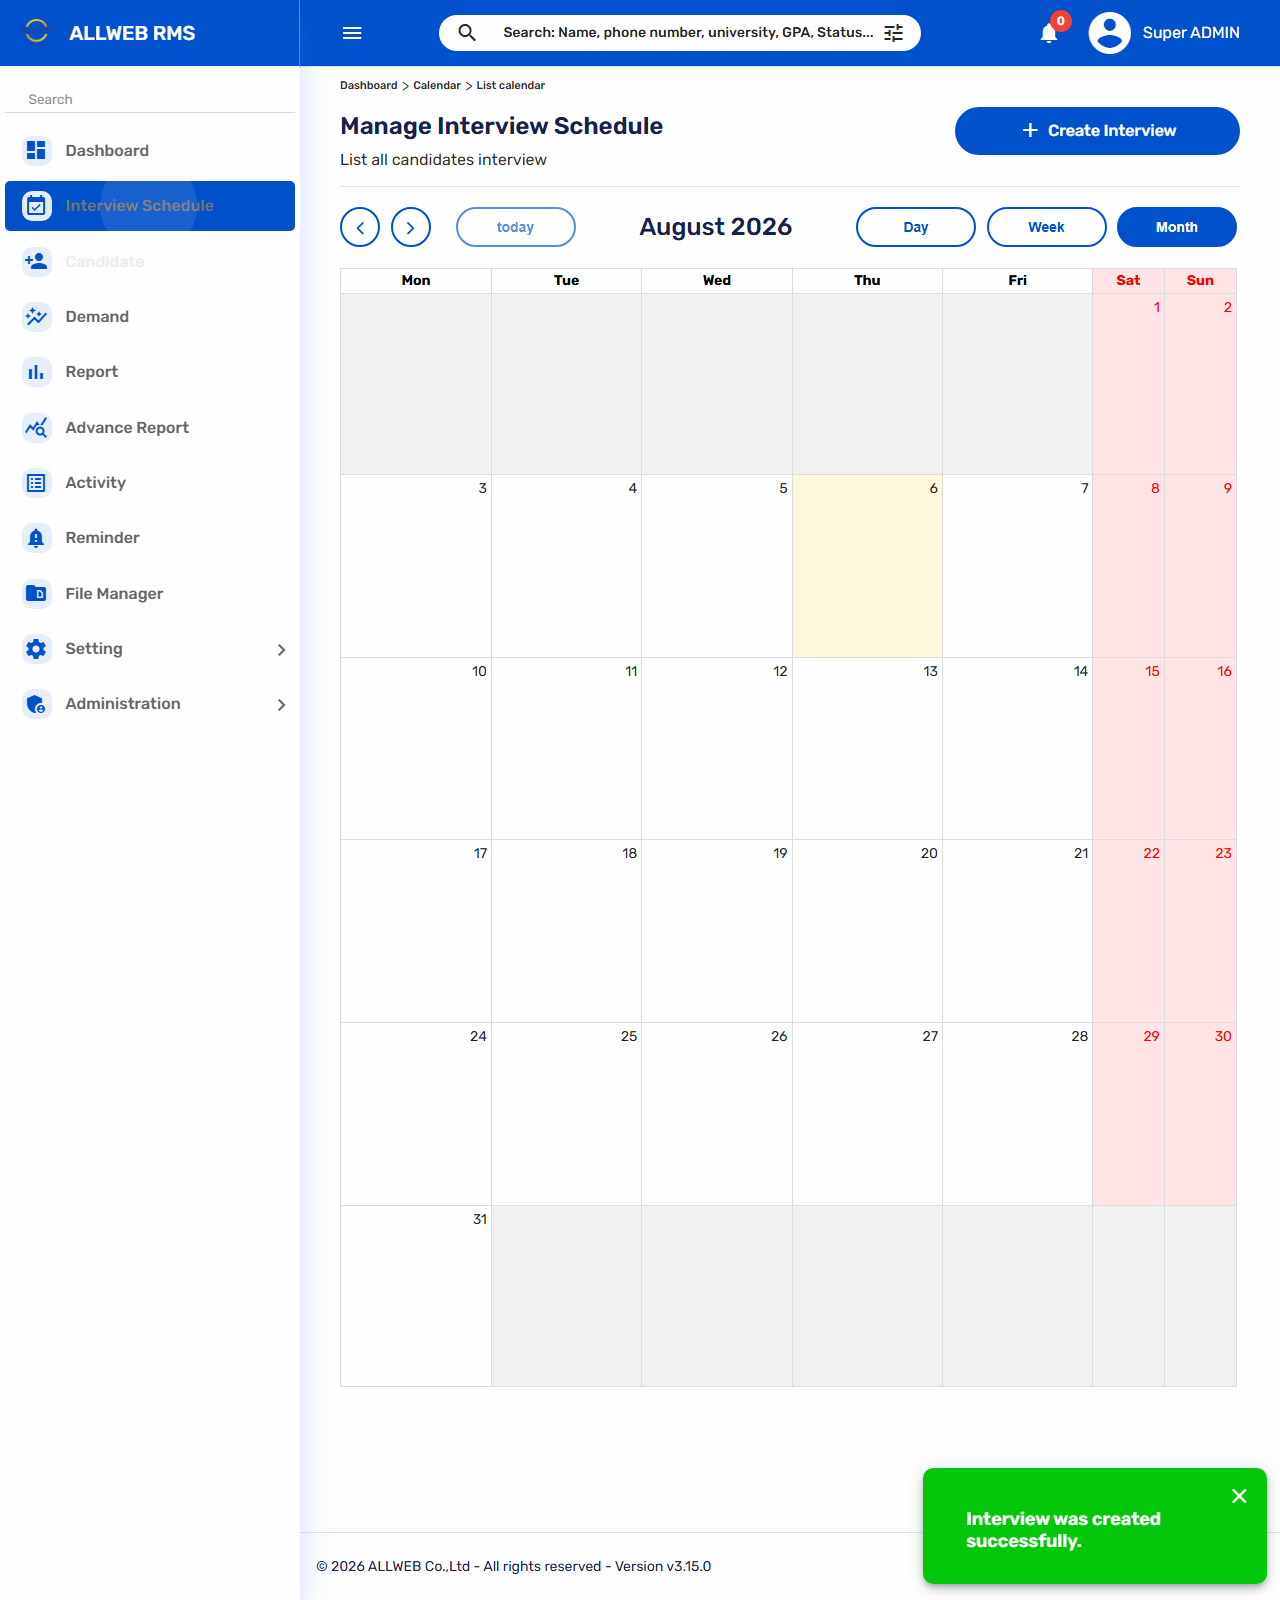
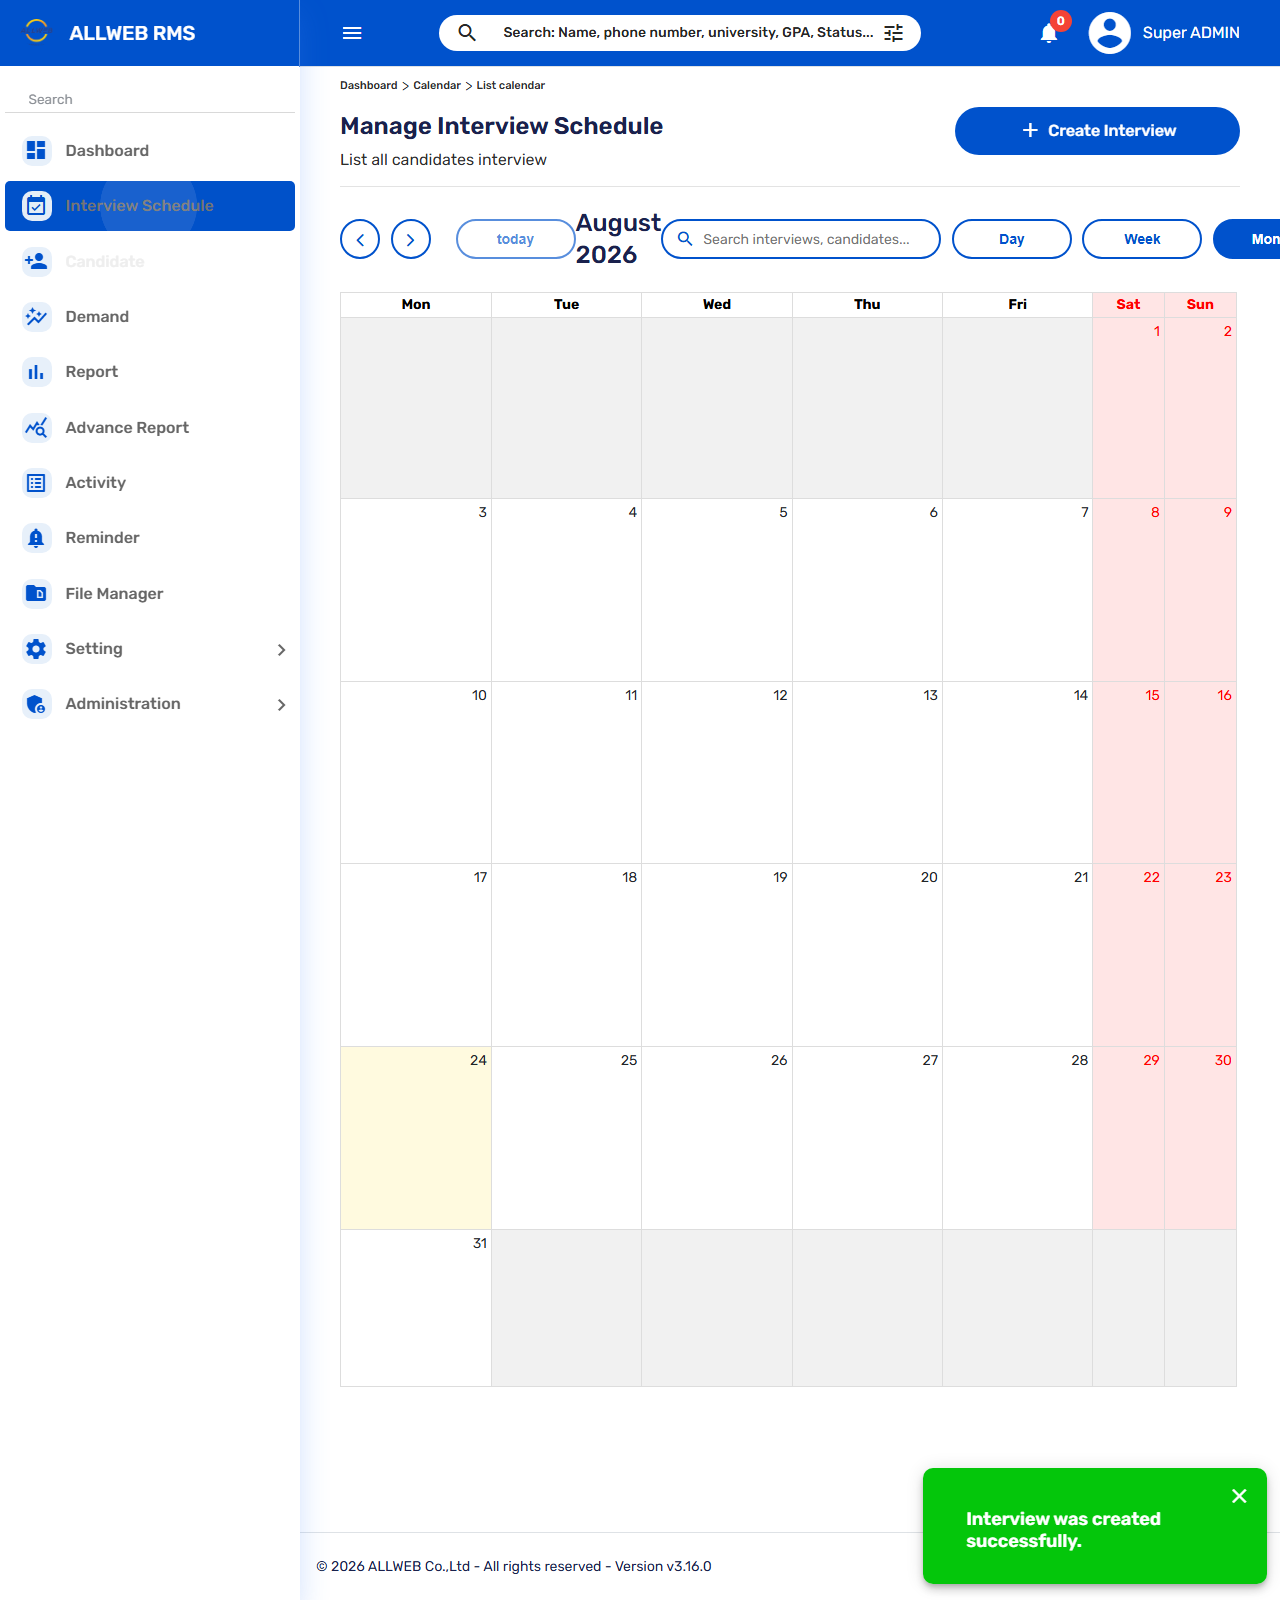
fix(tests): replace hardcoded calendar date with computed future date (Step 8 re-run)
- tests/helpers/candidate-helpers.ts: add pickFutureCalendarDate() - the suite's
  hardcoded "August 20," interview date was valid when written (2026-08-06) but
  is now a disabled past date as real time passed, hanging every click on it.
  Computes and returns a real future date instead, with month navigation.
- row-menu-set-interview.spec.ts (A10) and reschedule-cancel.spec.ts (D2): use
  the new helper; downstream assertions/lookups now use the picked date instead
  of a hardcoded day.
- row-menu-set-reminder.spec.ts (A9): apply the same fix - this dialog has the
  identical "date defaults to now, app rejects that" validation rule as Set
  Interview, but had never received the explicit-date-pick fix, so it kept
  failing and was misattributed to generic read-after-write-lag flakiness in
  the 2026-08-12 report.
- test-reports/incremental-rerun-2026-08-24.md: this session's smart re-run -
  no code/spec changes since 08-12, so only re-verified previously-uncertain
  tests plus live environment drift (confirmed the ~139 leftover Archive
  candidates flagged 08-12 are already cleaned up). 7/8 re-verified tests pass;
  A13 remains an intentional documentation of an open app defect.

diff --git a/tests/helpers/candidate-helpers.ts b/tests/helpers/candidate-helpers.ts
@@ -126,6 +126,43 @@ export async function selectComboboxOption(page: Page, fieldLabel: string, optio
 }
 
 /**
+ * Opens a "Open calendar" date/time field and picks a date `daysAhead` days from now,
+ * confirming via the "done" button. A previous version of these tests hardcoded a fixed
+ * calendar day (e.g. "August 20") - that was a valid future date when first written but
+ * silently became a disabled *past* date as real time passed, hanging every click on it
+ * (see report). Computing the target date relative to "now", and returning it, lets every
+ * caller build matching assertions/lookups without re-deriving the date itself.
+ */
+// Kept small (rather than e.g. 14) so the picked date almost always stays within the
+// currently-displayed month - callers that then look for the event on the Interview
+// Schedule calendar (a separate widget from this date picker) only check the month
+// that's already on screen and don't navigate it, so a cross-month date would hide there.
+export async function pickFutureCalendarDate(page: Page, daysAhead = 3): Promise<Date> {
+  await page.getByRole('button', { name: 'Open calendar' }).click();
+
+  const target = new Date();
+  target.setDate(target.getDate() + daysAhead);
+  const monthAbbrev = target.toLocaleString('en-US', { month: 'short' }).toUpperCase();
+  const monthFull = target.toLocaleString('en-US', { month: 'long' });
+  const day = target.getDate();
+  const year = target.getFullYear();
+
+  // The calendar opens on the current month - step forward via "Next month" until its
+  // header shows the target month/year (a no-op when daysAhead keeps it in the same month).
+  const periodButton = page.locator('.mat-calendar-period-button');
+  const nextMonthButton = page.getByRole('button', { name: 'Next month' });
+  for (let i = 0; i < 12; i += 1) {
+    const label = (await periodButton.innerText()).toUpperCase();
+    if (label.includes(monthAbbrev) && label.includes(String(year))) break;
+    await nextMonthButton.click();
+  }
+
+  await page.getByRole('gridcell', { name: `${monthFull} ${day},` }).click();
+  await page.getByRole('button').filter({ hasText: 'done' }).click();
+  return target;
+}
+
+/**
  * Fills the list's search box and waits for the resulting filtered-list request to resolve.
  *
  * The app debounces the search box server-side: the filtered GET request fires some time

diff --git a/tests/candidate-list/row-menu-set-interview.spec.ts b/tests/candidate-list/row-menu-set-interview.spec.ts
@@ -2,7 +2,7 @@
 // seed: tests/seed-candidate.spec.ts
 
 import { test, expect } from '@playwright/test';
-import { login, goToCandidateList, createSyntheticCandidate, searchFor, openRowMenu, clickRowMenuItem, archiveCandidateFromActiveList, selectComboboxOption } from '../helpers/candidate-helpers';
+import { login, goToCandidateList, createSyntheticCandidate, searchFor, openRowMenu, clickRowMenuItem, archiveCandidateFromActiveList, selectComboboxOption, pickFutureCalendarDate } from '../helpers/candidate-helpers';
 
 test.describe('A. Manage Candidates - List Page', () => {
   test('A10. Row action menu - Set Interview', async ({ page }) => {
@@ -28,10 +28,8 @@ test.describe('A. Manage Candidates - List Page', () => {
     await selectComboboxOption(page, 'Interviewers *', 'Chamrong THOR');
     await page.keyboard.press('Escape');
 
-    // 3. Fill in a future interview date/time (pick a day in the visible month) and save
-    await page.getByRole('button', { name: 'Open calendar' }).click();
-    await page.getByRole('gridcell', { name: 'August 20,' }).click();
-    await page.getByRole('button').filter({ hasText: 'done' }).click();
+    // 3. Fill in a future interview date/time and save
+    const interviewDate = await pickFutureCalendarDate(page);
 
     // 4. Select "Apply for"
     await selectComboboxOption(page, 'Apply for', 'Software Testing Automation');
@@ -47,7 +45,8 @@ test.describe('A. Manage Candidates - List Page', () => {
     // 3. The candidate's Interview column now shows the scheduled date/time (list may need reload)
     await page.reload();
     await searchFor(page, 'Candidate A10');
-    await expect(page.getByRole('row', { name })).toContainText('20/Aug/2026');
+    const displayDate = `${String(interviewDate.getDate()).padStart(2, '0')}/${interviewDate.toLocaleString('en-US', { month: 'short' })}/${interviewDate.getFullYear()}`;
+    await expect(page.getByRole('row', { name })).toContainText(displayDate);
 
     // 4. The same interview appears in the Interview Schedule module (some days render more
     // events than fit visually, so this checks DOM presence rather than strict visibility)

diff --git a/tests/interview-schedule/reschedule-cancel.spec.ts b/tests/interview-schedule/reschedule-cancel.spec.ts
@@ -3,7 +3,7 @@
 
 import { test, expect } from '@playwright/test';
 import {
-  login, goToCandidateList, createSyntheticCandidate, searchFor, openRowMenu, archiveCandidateFromActiveList, ensureOnCandidateList, selectComboboxOption,
+  login, goToCandidateList, createSyntheticCandidate, searchFor, openRowMenu, archiveCandidateFromActiveList, ensureOnCandidateList, selectComboboxOption, pickFutureCalendarDate,
 } from '../helpers/candidate-helpers';
 
 test.describe('D. Interview Schedule Module', () => {
@@ -25,9 +25,7 @@ test.describe('D. Interview Schedule Module', () => {
 
     // A date/time must be explicitly picked - the field's auto-filled default is left
     // marked invalid and silently blocks Save otherwise (see A10 for the same requirement).
-    await page.getByRole('button', { name: 'Open calendar' }).click();
-    await page.getByRole('gridcell', { name: 'August 20,' }).click();
-    await page.getByRole('button').filter({ hasText: 'done' }).click();
+    const interviewDate = await pickFutureCalendarDate(page);
 
     await selectComboboxOption(page, 'Apply for', 'Software Testing Automation');
     const saveButton = page.getByRole('button', { name: 'Save' });
@@ -51,8 +49,7 @@ test.describe('D. Interview Schedule Module', () => {
     // still be exercised.
     await page.screenshot({ path: 'defect-D2-calendar-event-title-zero-width.png' });
 
-    const now = new Date();
-    const bookedDateIso = `${now.getFullYear()}-${String(now.getMonth() + 1).padStart(2, '0')}-20`;
+    const bookedDateIso = `${interviewDate.getFullYear()}-${String(interviewDate.getMonth() + 1).padStart(2, '0')}-${String(interviewDate.getDate()).padStart(2, '0')}`;
     const eventChip = page
       .locator(`.fc-daygrid-day[data-date="${bookedDateIso}"]`)
       .locator('.custom-calendar-event')

diff --git a/tests/candidate-list/row-menu-set-reminder.spec.ts b/tests/candidate-list/row-menu-set-reminder.spec.ts
@@ -2,7 +2,7 @@
 // seed: tests/seed-candidate.spec.ts
 
 import { test, expect } from '@playwright/test';
-import { login, goToCandidateList, createSyntheticCandidate, searchFor, clickRowMenuItem, archiveCandidateFromActiveList, ensureOnCandidateList, waitForRowAfterWrite } from '../helpers/candidate-helpers';
+import { login, goToCandidateList, createSyntheticCandidate, searchFor, clickRowMenuItem, archiveCandidateFromActiveList, ensureOnCandidateList, waitForRowAfterWrite, pickFutureCalendarDate } from '../helpers/candidate-helpers';
 
 test.describe('A. Manage Candidates - List Page', () => {
   test('A9. Row action menu - Set Reminder', async ({ page }) => {
@@ -17,7 +17,11 @@ test.describe('A. Manage Candidates - List Page', () => {
     await clickRowMenuItem(page, name, /Set Reminder/);
     await expect(page.getByRole('heading', { name: 'Manage Create reminder' })).toBeVisible();
 
-    // 2. Fill in a title (Title is a plain textbox on this form) and save
+    // 2. Fill in a title (Title is a plain textbox on this form). The Date & time field
+    // auto-fills to the current moment, which this app's own validation rejects ("Invalid
+    // Date & time. Can't be current time") - a future date must be explicitly picked first,
+    // same underlying requirement as Set Interview (see pickFutureCalendarDate).
+    await pickFutureCalendarDate(page);
     await page.getByRole('textbox', { name: 'title' }).fill('QA E2E automated reminder test');
     await page.getByRole('button', { name: 'Save' }).click();
     await ensureOnCandidateList(page);

diff --git a/test-reports/incremental-rerun-2026-08-24.md b/test-reports/incremental-rerun-2026-08-24.md
@@ -1,0 +1,134 @@
+# Test Execution Report: Incremental Re-run (Smart Re-run / Step 8)
+
+**Mode:** PARTIAL RE-RUN (Steps 4-7 only)
+**Environment:** https://rms-dev.allweb.com.kh (real, production-like data)
+**Date:** 2026-08-24
+**Browser:** Chromium (affected-suite scope, serial execution)
+
+## 1. Re-run Scope Decision
+
+Compared the working tree against the last recorded run
+(`test-reports/incremental-rerun-2026-08-12.md`, 2026-08-12):
+
+| Artifact | Status | Conclusion |
+|---|---|---|
+| `specs/candidate-management.md`, `specs/candidate-delete-test-plan.md` | Unchanged | Test plans still current |
+| `user-stories/SCRUM.md` | Unchanged since 08-12 consolidation | No new acceptance criteria |
+| All `tests/**/*.spec.ts`, `tests/helpers/candidate-helpers.ts` | Unchanged since the 08-12 commit | No code drift to verify |
+| Git history | No commits between 2026-08-12 and today | Nothing in the repo changed |
+
+Since neither the test plans, acceptance criteria, nor test code had changed in 12 days,
+**no re-planning, re-exploration, or full-suite re-run was performed**. The only thing that
+could plausibly have drifted is the *live environment* itself (real time passing, and the
+carried-forward Archive-view cleanup recommendation from the last report) - so this session
+re-verified exactly the tests the last report flagged as uncertain, plus a live environment
+check, rather than redoing Steps 1-4 or the full ~40-file suite.
+
+## 2. Environment Drift Check
+
+- **Archive-view leftover synthetic candidates:** the 08-12 report flagged ~139 leftover
+  `QaAutomationTest CANDIDATE ...` records as an open cleanup recommendation, not yet
+  actioned. Checked live: the Archive view now holds only 11 records, none of them leftover
+  per-run synthetic candidates - all are the small set of permanent, pre-established
+  automation-owned candidates (e.g. Vk KONG, Raksa CHANN, Sopheak PHAL) already documented in
+  `specs/candidate-management.md` as safe fixtures. **This recommendation is resolved** (by
+  whom/when is not recorded - possibly cleaned up between sessions); no action needed now.
+
+## 3. Automated Test Results
+
+### Scope executed
+
+The 3 tests the last report carried forward as unresolved/uncertain, re-run first to check
+for drift:
+
+| Test | 08-12 result | 08-24 result (before healing) |
+|---|---|---|
+| `candidate-list/row-menu-archive.spec.ts` (A13) | FAIL (known defect, by design) | FAIL (same defect) |
+| `candidate-archive/restore.spec.ts` (E2) | FAIL (flaky, confirmed not a regression) | **PASS** |
+| `candidate-list/row-menu-set-reminder.spec.ts` (A9) | FAIL (flaky, confirmed not a regression) | FAIL (new cause - see below) |
+
+Then broadened to the rest of this session's originally-failing set to confirm nothing else
+had drifted: `row-menu-set-interview.spec.ts` (A10), `inline-status-update.spec.ts` (A5),
+`add-candidate-success.spec.ts` (B2), `reschedule-cancel.spec.ts` (D2),
+`edit-persist-session.spec.ts` (C1) - 8 tests total, Chromium, `--workers=1`.
+
+### Result: 2 new real failures found - both genuine environment drift, not flakiness
+
+**A10 (Set Interview) and D2 (Interview Schedule reschedule) failed** with the calendar's
+"Open calendar" day-grid picker refusing to click a specific day. Root cause: both tests
+hardcoded a fixed calendar day (`'August 20,'`), which was a valid *future* date when the
+suite was first written (2026-08-06) but is now a **disabled past date** now that real time
+has moved to 2026-08-24 - the datepicker correctly refuses to select it, and the click retries
+for the full test timeout instead of failing fast.
+
+**A9 (Set Reminder) failed for a related but previously-unaddressed reason:** the Set Reminder
+dialog's Date & time field auto-fills to the current moment, which the app's own validation
+rejects with a toast ("Invalid Date & time. Can't be current time"). This silently blocks Save
+- the reminder is never created, so the later search for it times out. This is the *same*
+defaulted-to-now validation rule Set Interview has, but A9 had never received the
+explicit-date-pick fix that A10/D2 already had, so this was not new drift - it was a real,
+pre-existing gap the 08-12 report had misattributed to generic "read-after-write lag" flakiness
+(reasonable at the time, since the two failures looked identical and the dialog itself was not
+re-inspected live).
+
+### Healing performed
+
+1. Added a shared `pickFutureCalendarDate(page, daysAhead = 3)` helper to
+   `tests/helpers/candidate-helpers.ts` that computes a real future date relative to "now" (with
+   month navigation via the calendar's "Next month" button) instead of a hardcoded day, and
+   returns the picked `Date` so callers can build matching assertions/lookups. `daysAhead`
+   defaults to a small value (3, not e.g. 14) specifically so the picked date stays within the
+   currently-displayed month for the Interview Schedule calendar widget these tests also
+   inspect, which does not itself navigate months.
+2. `row-menu-set-interview.spec.ts` (A10): uses the helper; the post-save row assertion now
+   checks the dynamically-formatted date instead of a hardcoded `'20/Aug/2026'`.
+3. `reschedule-cancel.spec.ts` (D2): uses the helper; the FullCalendar day-cell lookup
+   (`data-date="..."`) is now built from the picked date instead of a hardcoded `-20` day.
+4. `row-menu-set-reminder.spec.ts` (A9): added a call to the same helper before filling the
+   title and saving, closing the actual gap rather than continuing to attribute the failure to
+   environment flakiness.
+
+### Final results (re-run after healing)
+
+| Test | Result |
+|---|---|
+| `candidate-list/row-menu-set-interview.spec.ts` (A10) | PASS |
+| `candidate-list/row-menu-set-reminder.spec.ts` (A9) | PASS |
+| `interview-schedule/reschedule-cancel.spec.ts` (D2) | PASS |
+| `candidate-list/row-menu-archive.spec.ts` (A13) | FAIL (unchanged, by design) |
+| `candidate-list/inline-status-update.spec.ts` (A5) | PASS (unchanged) |
+| `candidate-add/add-candidate-success.spec.ts` (B2) | PASS (unchanged) |
+| `candidate-archive/restore.spec.ts` (E2) | PASS (unchanged) |
+| `candidate-modify/edit-persist-session.spec.ts` (C1) | PASS (unchanged) |
+
+**7/8 passing** (the 8th, A13, is an intentional documentation of an open app defect, not a
+test failure to fix).
+
+## 4. Defects / Risks Carried Forward
+
+- A13's Archive-search-ignores-Last-Name defect remains open (pre-existing, tracked via its
+  own inline test assertion) - reconfirmed live today with the same signature.
+- D1 (Delete dialog close-icon accessibility gap, from `candidate-delete-test-report.md`)
+  remains open; not re-verified this session (out of scope - nothing about it had changed).
+- **New, generalizable observation:** any test that hardcodes a specific calendar date is a
+  latent time bomb against this environment's "no date in the past" validation rule. The new
+  `pickFutureCalendarDate` helper should be the standard way to pick a date going forward
+  rather than a literal string, and any *other* still-undiscovered hardcoded date elsewhere in
+  the suite should be treated as a candidate for the same class of failure once enough real
+  time passes.
+
+## 5. Housekeeping
+
+Removed three throwaway one-off diagnostic scripts (`_archive-count.mjs`, `_archive-list.mjs`,
+`_diag-calendar.mjs`) written during this session's live investigation; they were never meant
+to be part of the delivered suite. The pre-existing `_check-orphans.mjs` / `_cleanup-orphans.mjs`
+utilities (committed 2026-08-11) were reused as-is and left in place.
+
+## 6. Commit Scope (Step 7)
+
+- `tests/helpers/candidate-helpers.ts` (new `pickFutureCalendarDate` helper)
+- `tests/candidate-list/row-menu-set-interview.spec.ts` (A10 - dynamic date)
+- `tests/candidate-list/row-menu-set-reminder.spec.ts` (A9 - actual fix, not just re-flagged)
+- `tests/interview-schedule/reschedule-cancel.spec.ts` (D2 - dynamic date)
+- `defect-A13-archive-search-ignores-lastname.png`, `defect-D2-calendar-event-title-zero-width.png` (evidence screenshots refreshed by this session's runs)
+- `test-reports/incremental-rerun-2026-08-24.md` (this report)
